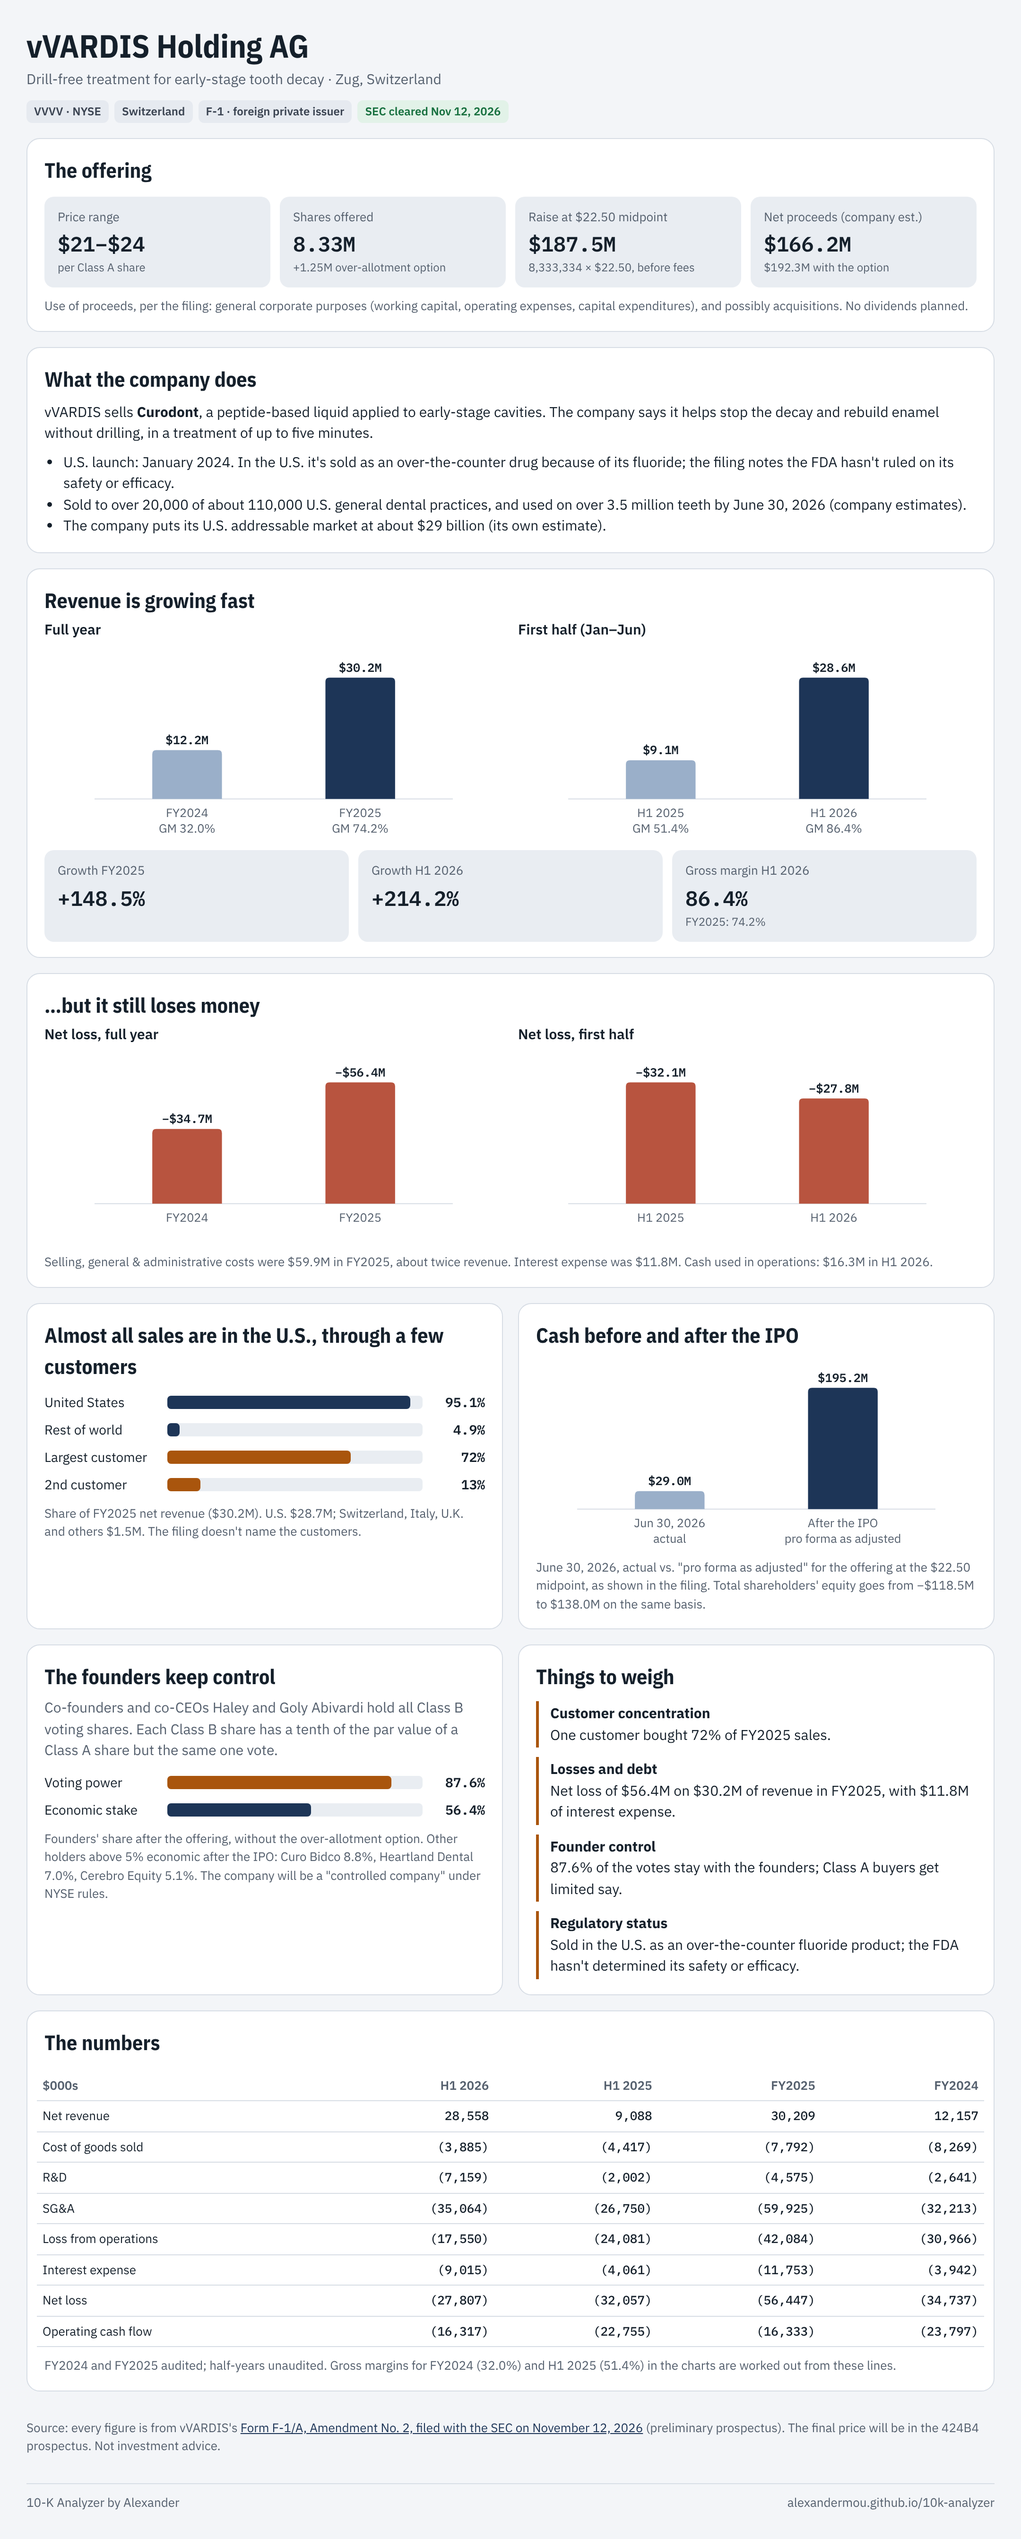
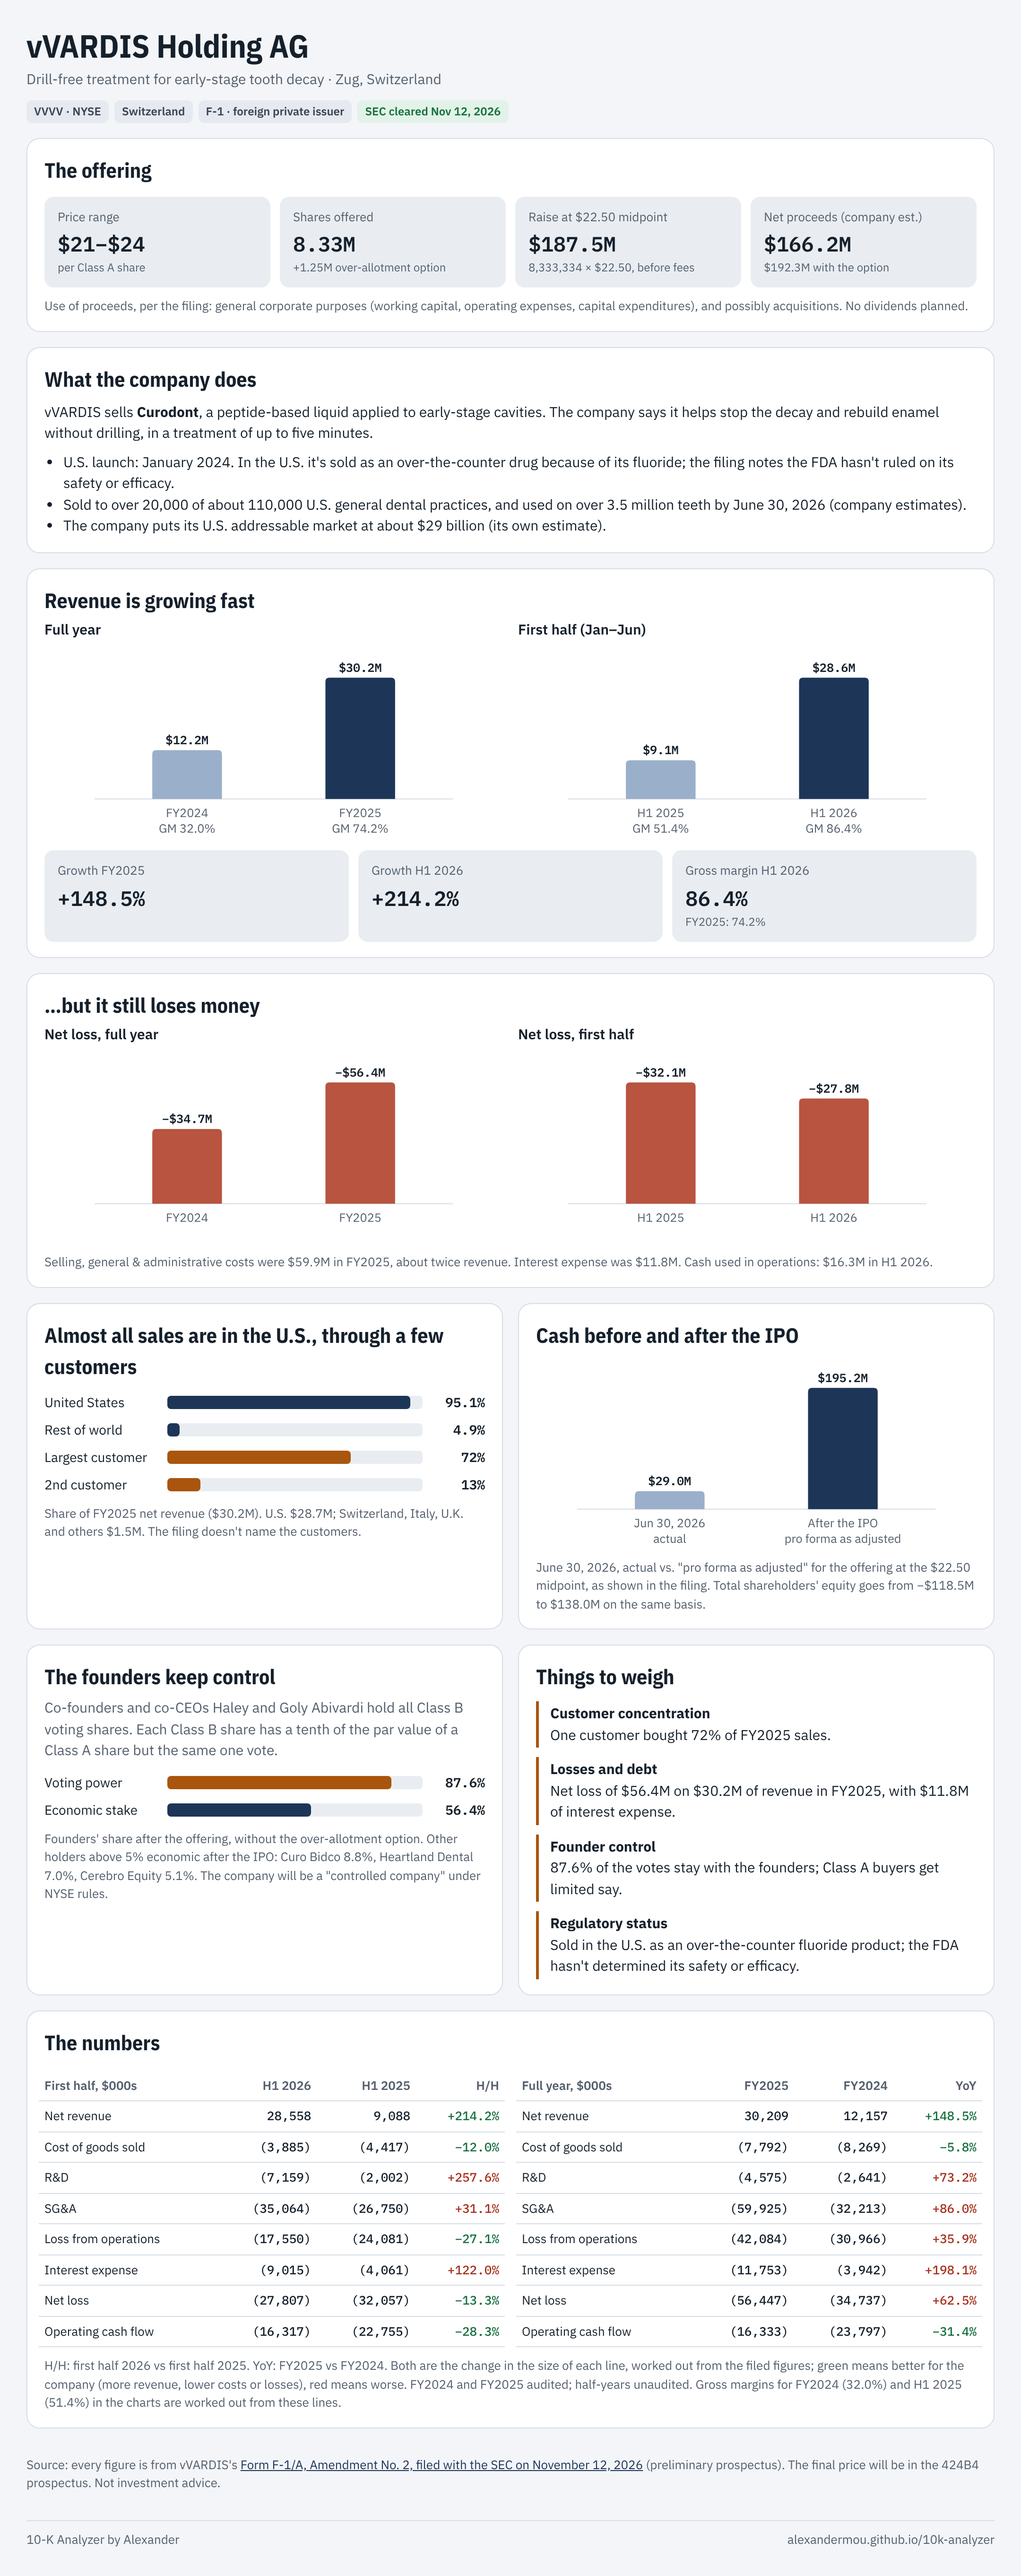
Preview: H/H and YoY columns in the vVARDIS numbers table; infographic redrawn
Claude-Session: https://claude.ai/code/session_01HeMLiZJBWgGbeBJA8eWkHL

diff --git a/ipo/VVVV.html b/ipo/VVVV.html
@@ -59,8 +59,10 @@ h2{font-family:var(--f-display);font-size:22px;margin:0 0 4px}
 .risks{margin:10px 0 0;padding:0;list-style:none;display:flex;flex-direction:column;gap:10px}
 .risks li{border-left:3px solid var(--accent);padding:2px 0 2px 12px}
 .risks b{display:block}
-.tw{overflow-x:auto;margin:0 -8px}
+.tw{overflow-x:auto;margin:0 -6px}
+.tables{gap:8px 24px}
 table{border-collapse:collapse;width:100%;font-size:13px;margin-top:10px}
+td.g{color:var(--pos)}td.b{color:var(--neg)}
 th,td{text-align:right;padding:6px 6px;white-space:nowrap;border-bottom:1px solid var(--line);font-family:var(--f-mono)}
 th:first-child,td:first-child{text-align:left;font-family:var(--f-body)}
 th{color:var(--muted);font-weight:600;font-family:var(--f-body)}
@@ -197,20 +199,35 @@ body.shot .chart svg{height:200px}
 
   <section class="card wide">
     <h2>The numbers</h2>
+<div class="pair tables">
     <div class="tw"><table>
-      <thead><tr><th>$000s</th><th>H1 2026</th><th>H1 2025</th><th>FY2025</th><th>FY2024</th></tr></thead>
+      <thead><tr><th>First half, $000s</th><th>H1 2026</th><th>H1 2025</th><th>H/H</th></tr></thead>
       <tbody>
-        <tr><td>Net revenue</td><td>28,558</td><td>9,088</td><td>30,209</td><td>12,157</td></tr>
-        <tr><td>Cost of goods sold</td><td>(3,885)</td><td>(4,417)</td><td>(7,792)</td><td>(8,269)</td></tr>
-        <tr><td>R&amp;D</td><td>(7,159)</td><td>(2,002)</td><td>(4,575)</td><td>(2,641)</td></tr>
-        <tr><td>SG&amp;A</td><td>(35,064)</td><td>(26,750)</td><td>(59,925)</td><td>(32,213)</td></tr>
-        <tr><td>Loss from operations</td><td>(17,550)</td><td>(24,081)</td><td>(42,084)</td><td>(30,966)</td></tr>
-        <tr><td>Interest expense</td><td>(9,015)</td><td>(4,061)</td><td>(11,753)</td><td>(3,942)</td></tr>
-        <tr><td>Net loss</td><td>(27,807)</td><td>(32,057)</td><td>(56,447)</td><td>(34,737)</td></tr>
-        <tr><td>Operating cash flow</td><td>(16,317)</td><td>(22,755)</td><td>(16,333)</td><td>(23,797)</td></tr>
+        <tr><td>Net revenue</td><td>28,558</td><td>9,088</td><td class="g">+214.2%</td></tr>
+        <tr><td>Cost of goods sold</td><td>(3,885)</td><td>(4,417)</td><td class="g">−12.0%</td></tr>
+        <tr><td>R&amp;D</td><td>(7,159)</td><td>(2,002)</td><td class="b">+257.6%</td></tr>
+        <tr><td>SG&amp;A</td><td>(35,064)</td><td>(26,750)</td><td class="b">+31.1%</td></tr>
+        <tr><td>Loss from operations</td><td>(17,550)</td><td>(24,081)</td><td class="g">−27.1%</td></tr>
+        <tr><td>Interest expense</td><td>(9,015)</td><td>(4,061)</td><td class="b">+122.0%</td></tr>
+        <tr><td>Net loss</td><td>(27,807)</td><td>(32,057)</td><td class="g">−13.3%</td></tr>
+        <tr><td>Operating cash flow</td><td>(16,317)</td><td>(22,755)</td><td class="g">−28.3%</td></tr>
       </tbody>
     </table></div>
-    <p class="note">FY2024 and FY2025 audited; half-years unaudited. Gross margins for FY2024 (32.0%) and H1 2025 (51.4%) in the charts are worked out from these lines.</p>
+    <div class="tw"><table>
+      <thead><tr><th>Full year, $000s</th><th>FY2025</th><th>FY2024</th><th>YoY</th></tr></thead>
+      <tbody>
+        <tr><td>Net revenue</td><td>30,209</td><td>12,157</td><td class="g">+148.5%</td></tr>
+        <tr><td>Cost of goods sold</td><td>(7,792)</td><td>(8,269)</td><td class="g">−5.8%</td></tr>
+        <tr><td>R&amp;D</td><td>(4,575)</td><td>(2,641)</td><td class="b">+73.2%</td></tr>
+        <tr><td>SG&amp;A</td><td>(59,925)</td><td>(32,213)</td><td class="b">+86.0%</td></tr>
+        <tr><td>Loss from operations</td><td>(42,084)</td><td>(30,966)</td><td class="b">+35.9%</td></tr>
+        <tr><td>Interest expense</td><td>(11,753)</td><td>(3,942)</td><td class="b">+198.1%</td></tr>
+        <tr><td>Net loss</td><td>(56,447)</td><td>(34,737)</td><td class="b">+62.5%</td></tr>
+        <tr><td>Operating cash flow</td><td>(16,333)</td><td>(23,797)</td><td class="g">−31.4%</td></tr>
+      </tbody>
+    </table></div>
+    </div>
+    <p class="note">H/H: first half 2026 vs first half 2025. YoY: FY2025 vs FY2024. Both are the change in the size of each line, worked out from the filed figures; green means better for the company (more revenue, lower costs or losses), red means worse. FY2024 and FY2025 audited; half-years unaudited. Gross margins for FY2024 (32.0%) and H1 2025 (51.4%) in the charts are worked out from these lines.</p>
   </section>
 
   <p class="src">Source: every figure is from vVARDIS's <a href="https://www.sec.gov/Archives/edgar/data/1907709/000114036126043309/ny20076472x16_f1a.htm" target="_blank" rel="noopener">Form F-1/A, Amendment No. 2, filed with the SEC on November 12, 2026</a> (preliminary prospectus). The final price will be in the 424B4 prospectus. Not investment advice.</p>
